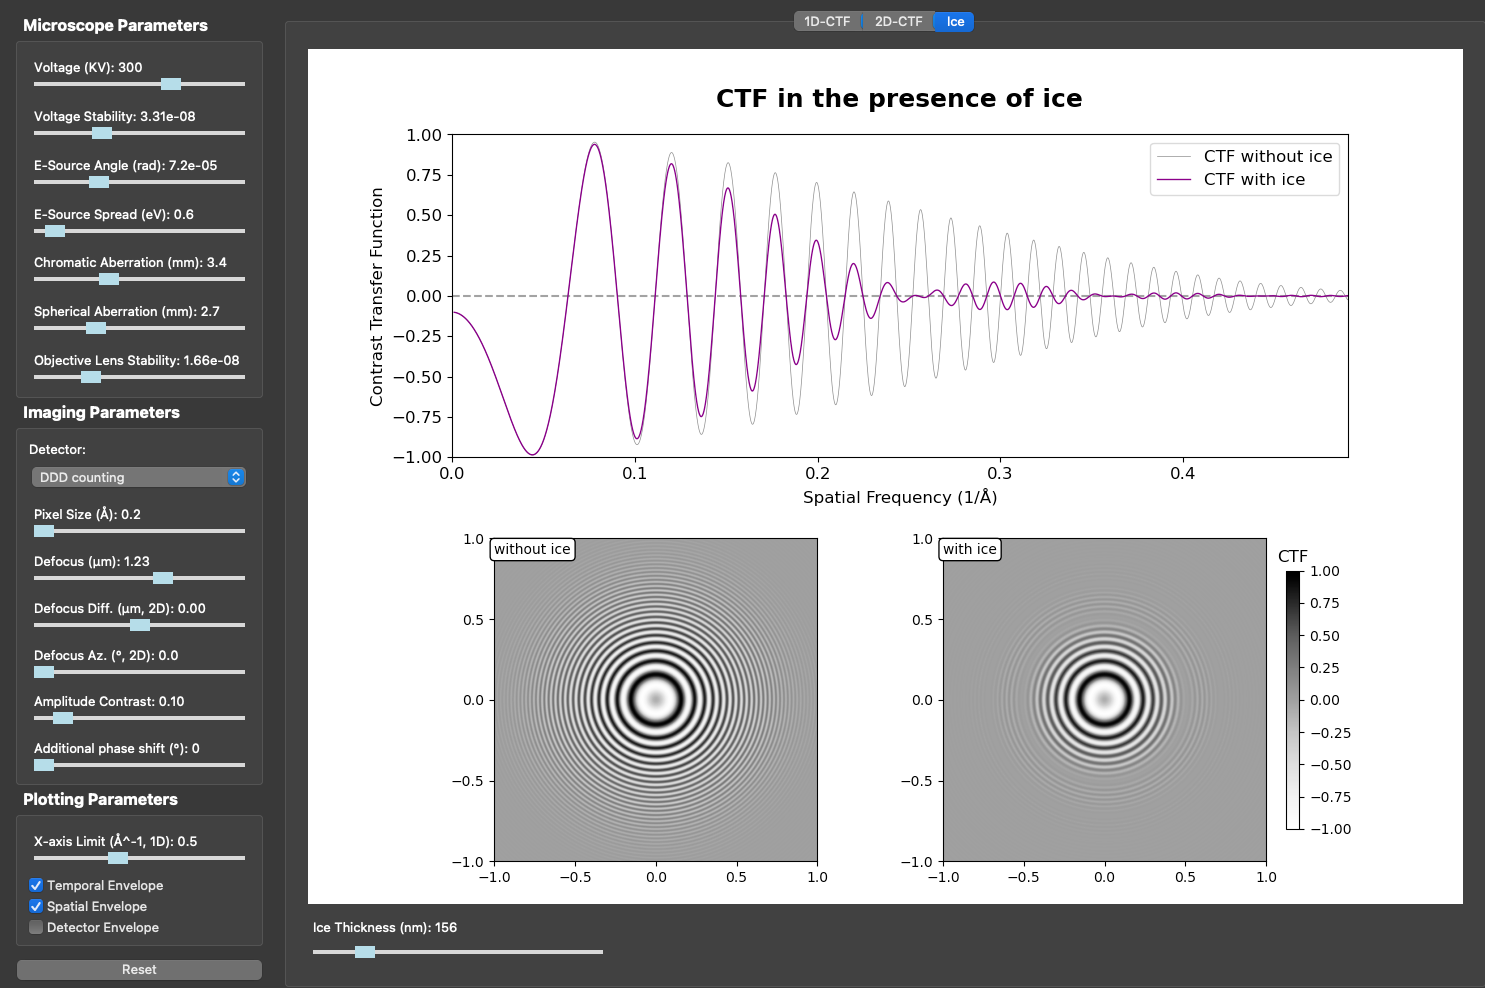
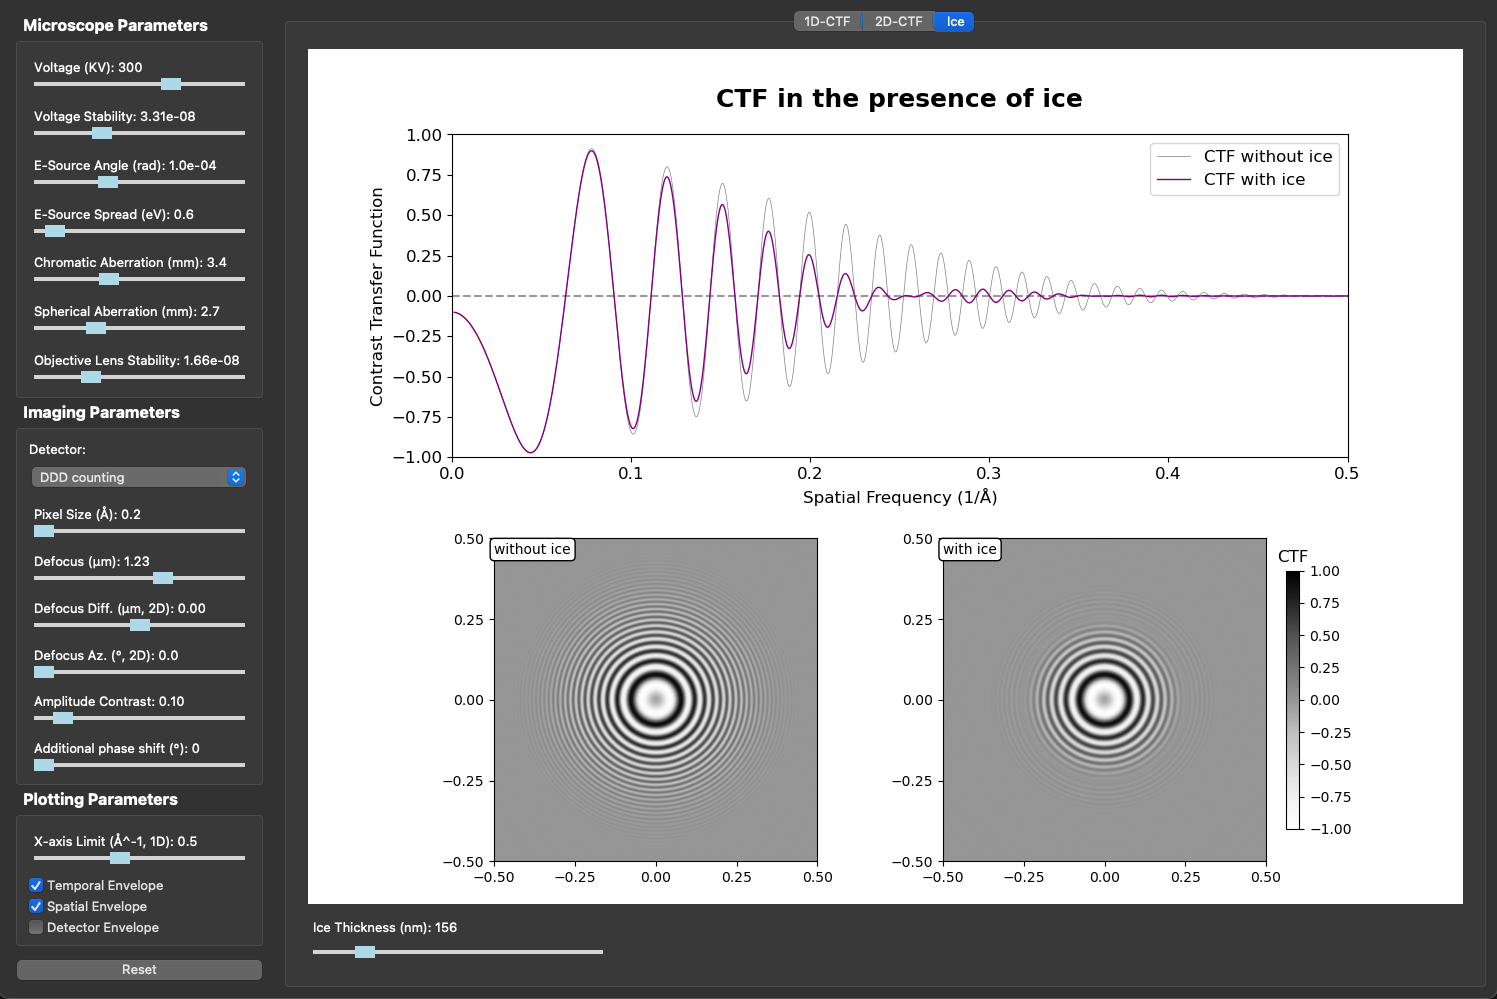
improve plot annotation

diff --git a/controller.py b/controller.py
@@ -1,3 +1,4 @@
+import math
 import numpy as np
 from typing import Optional
 from gui import CTFSimGUI
@@ -118,7 +119,29 @@ class AppController(CTFSimGUI):
 
         # 2D Plot
         self.canvas_2d.axes[1].set_title("2-D Contrast Transfer Function", fontsize=18, fontweight='bold', pad=20)
-        self.image = self.canvas_2d.axes[1].imshow(self.ctf_2d.dampened_ctf_2d(self.fx, self.fy), cmap='Greys')
+        self.image = self.canvas_2d.axes[1].imshow(
+            self.ctf_2d.dampened_ctf_2d(self.fx, self.fy), 
+            extent=(-0.5, 0.5, -0.5, 0.5), 
+            cmap='Greys', 
+            vmin=-1, 
+            vmax=1,
+        )
+        self.canvas_2d.axes[1].tick_params(axis='both', labelsize=14)
+        self.canvas_2d.axes[1].set_xticks([-0.5, -0.25, 0, 0.25, 0.5])
+        self.canvas_2d.axes[1].set_yticks([-0.5, -0.25, 0, 0.25, 0.5])
+        self.canvas_2d.axes[1].set_xlabel("Spatial Frequency X (1/Å)", fontsize=14)
+        self.canvas_2d.axes[1].set_ylabel("Spatial Frequency Y (1/Å)", fontsize=14)
+        cbar_2D = self.canvas_ice.fig.colorbar(
+            self.image, 
+            ax=self.canvas_2d.axes[1], 
+            orientation='horizontal',  
+            shrink=0.5,  # Adjust the size of the color bar
+            pad=0.01  # Adjust the spacing between the color bar and the plot
+        )
+        # cbar_2D.ax.set_xlabel('CTF', fontsize=12)
+        cbar_2D.ax.set_xlabel('CTF', fontsize=12) 
+        cbar_2D.ax.tick_params(labelsize=12)
+        cbar_2D.ax.set_position([0.25, 0.12, 0.5, 0.02])
 
         # Ice Plots
         self.canvas_ice.fig.subplots_adjust(hspace=0.25, top=0.9, bottom=0.05)
@@ -146,31 +169,31 @@ class AppController(CTFSimGUI):
         self.canvas_ice.axes[1].legend(fontsize=12)
         self.ice_image_ref = self.canvas_ice.axes[2].imshow(
             self.ctf_2d.dampened_ctf_2d(self.fx, self.fy), 
-            extent=(-1, 1, -1, 1), 
+            extent=(-0.5, 0.5, -0.5, 0.5), 
             cmap='Greys', 
             vmin=-1, 
             vmax=1
         )
         self.ice_image = self.canvas_ice.axes[3].imshow(
             self.ctf_2d.dampened_ctf_ice(self.fx, self.fy), 
-            extent=(-1, 1, -1, 1),
+            extent=(-0.5, 0.5, -0.5, 0.5),
             cmap='Greys', 
             vmin=-1, 
             vmax=1
         )
-        cbar = self.canvas_ice.fig.colorbar(
+        cbar_ice = self.canvas_ice.fig.colorbar(
             self.ice_image_ref, 
             ax=self.canvas_ice.axes[3], 
             orientation='vertical',  
             shrink=0.8,  # Adjust the size of the color bar
             pad=0.05  # Adjust the spacing between the color bar and the plot
         )
-        cbar.ax.set_title('CTF')
+        cbar_ice.ax.set_title('CTF')
         # cbar.ax.xaxis.set_label_position('top')
-        self.canvas_ice.axes[2].set_xticks(np.linspace(-1, 1, 5))
-        self.canvas_ice.axes[2].set_yticks(np.linspace(-1, 1, 5))
-        self.canvas_ice.axes[3].set_xticks(np.linspace(-1, 1, 5))
-        self.canvas_ice.axes[3].set_yticks(np.linspace(-1, 1, 5))
+        self.canvas_ice.axes[2].set_xticks([-0.5, -0.25, 0, 0.25, 0.5])
+        self.canvas_ice.axes[2].set_yticks([-0.5, -0.25, 0, 0.25, 0.5])
+        self.canvas_ice.axes[3].set_xticks([-0.5, -0.25, 0, 0.25, 0.5])
+        self.canvas_ice.axes[3].set_yticks([-0.5, -0.25, 0, 0.25, 0.5])
 
         # Annotations for 1D CTF
         self.annotation_1d = self.canvas_1d.axes[1].annotate(
@@ -198,7 +221,7 @@ class AppController(CTFSimGUI):
 
         self.canvas_ice.axes[2].annotate(
             "without ice",
-            xy=(-1, 1),
+            xy=(-0.5, 0.5),
             xytext=(0, -11),
             textcoords="offset points",
             bbox=dict(boxstyle="round", fc="w"),
@@ -207,7 +230,7 @@ class AppController(CTFSimGUI):
 
         self.canvas_ice.axes[3].annotate(
             "with ice",
-            xy=(-1, 1),
+            xy=(-0.5, 0.5),
             xytext=(0, -11),
             textcoords="offset points",
             bbox=dict(boxstyle="round", fc="w"),
@@ -361,21 +384,22 @@ class AppController(CTFSimGUI):
         if event.inaxes == self.canvas_1d.axes[1]:
             x, y = event.xdata, event.ydata
             if x is not None and y is not None:
-                self.annotation_1d.xy = (x, y)
-                self.annotation_1d.set_text(f"x: {x:.2f}, y: {y:.2f}")
+                res = 1. / x
+                value = self.ctf_1d.dampened_ctf_1d(np.array([x]))
+                self.annotation_1d.xy = (x, value)
+                self.annotation_1d.set_text(f"res: {res:.2f} Å\nctf: {float(value):.4f}")
                 self.annotation_1d.set_visible(True)
                 self.canvas_1d.draw_idle()
         elif event.inaxes == self.canvas_2d.axes[1]:
             x, y = event.xdata, event.ydata
             if x is not None and y is not None:
-                if 0 <= x < self.image_size and 0 <= y < self.image_size:
-                    self.annotation_2d.xy = (x, y)
-                    x_freq = (x - 200) / 400.0
-                    y_freq = (y - 200) / 400.0
-                    value = self.ctf_2d.dampened_ctf_2d(np.array([x_freq]), np.array([y_freq]))
-                    self.annotation_2d.set_text(f"x: {x_freq:.2f}, y: {y_freq:.2f}, value: {float(value):.2f}")
-                    self.annotation_2d.set_visible(True)
-                    self.canvas_2d.draw_idle()
+                res = 1. / math.sqrt(x**2 + y**2)
+                angle = math.degrees(math.atan2(y, x))
+                self.annotation_2d.xy = (x, y)
+                value = self.ctf_2d.dampened_ctf_2d(np.array([x]), np.array([-y]))
+                self.annotation_2d.set_text(f"res: {res:.2f} Å\nangle: {angle:.2f}°\nctf: {float(value):.4f}")
+                self.annotation_2d.set_visible(True)
+                self.canvas_2d.draw_idle()
         else:
             self.annotation_1d.set_visible(False)
             self.annotation_2d.set_visible(False)

diff --git a/README.md b/README.md
@@ -4,7 +4,7 @@ This repository provides a **Contrast Transfer Function (CTF)** implementation f
 ## Screenshots
 ![screenshot1](screenshot1.png)
 ![screenshot2](screenshot2.png)
-![screenshot3](screenshot2.png)
+![screenshot3](screenshot3.png)
 ## Dependencies
 - **Python** 3.12
 - **NumPy** 2.1.3
